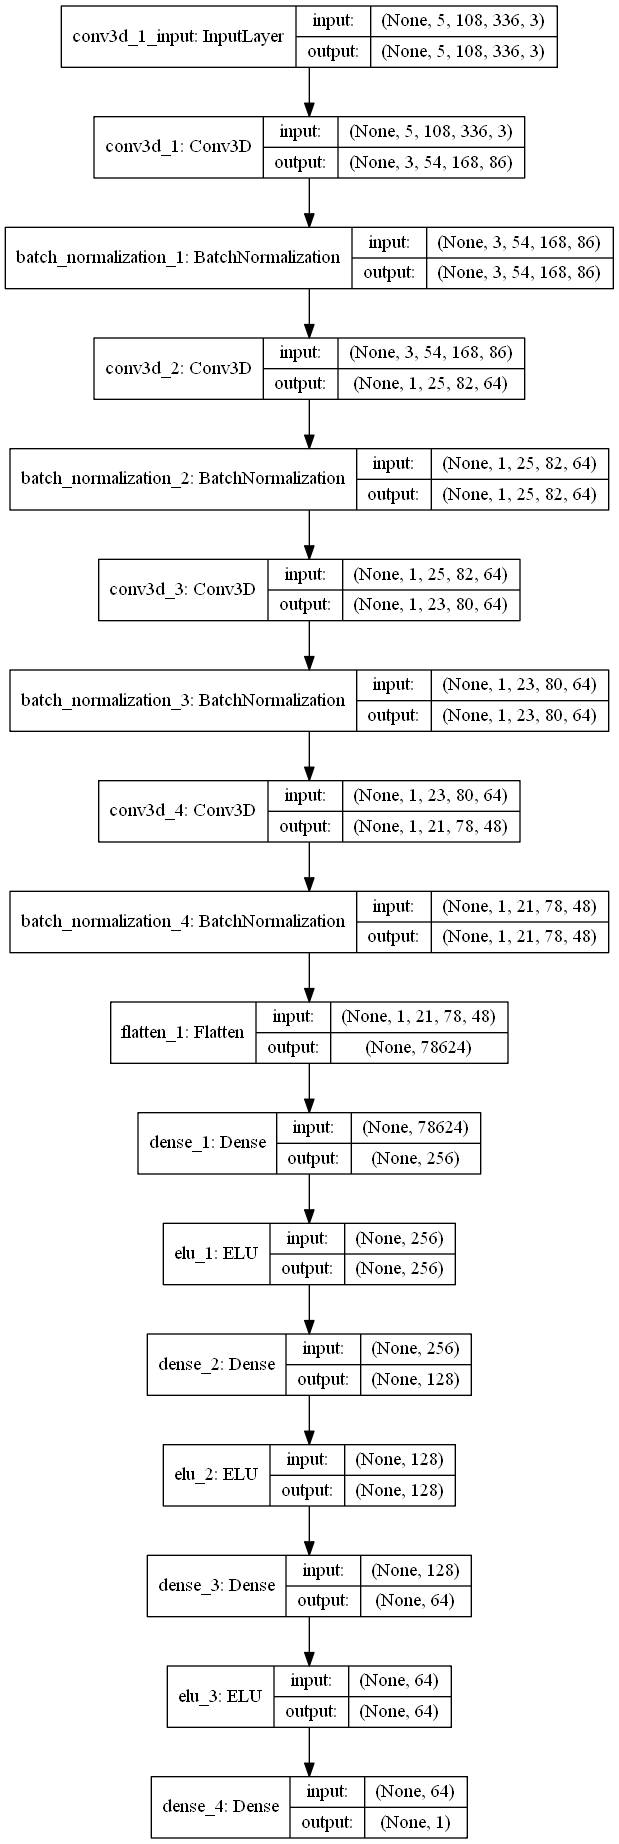
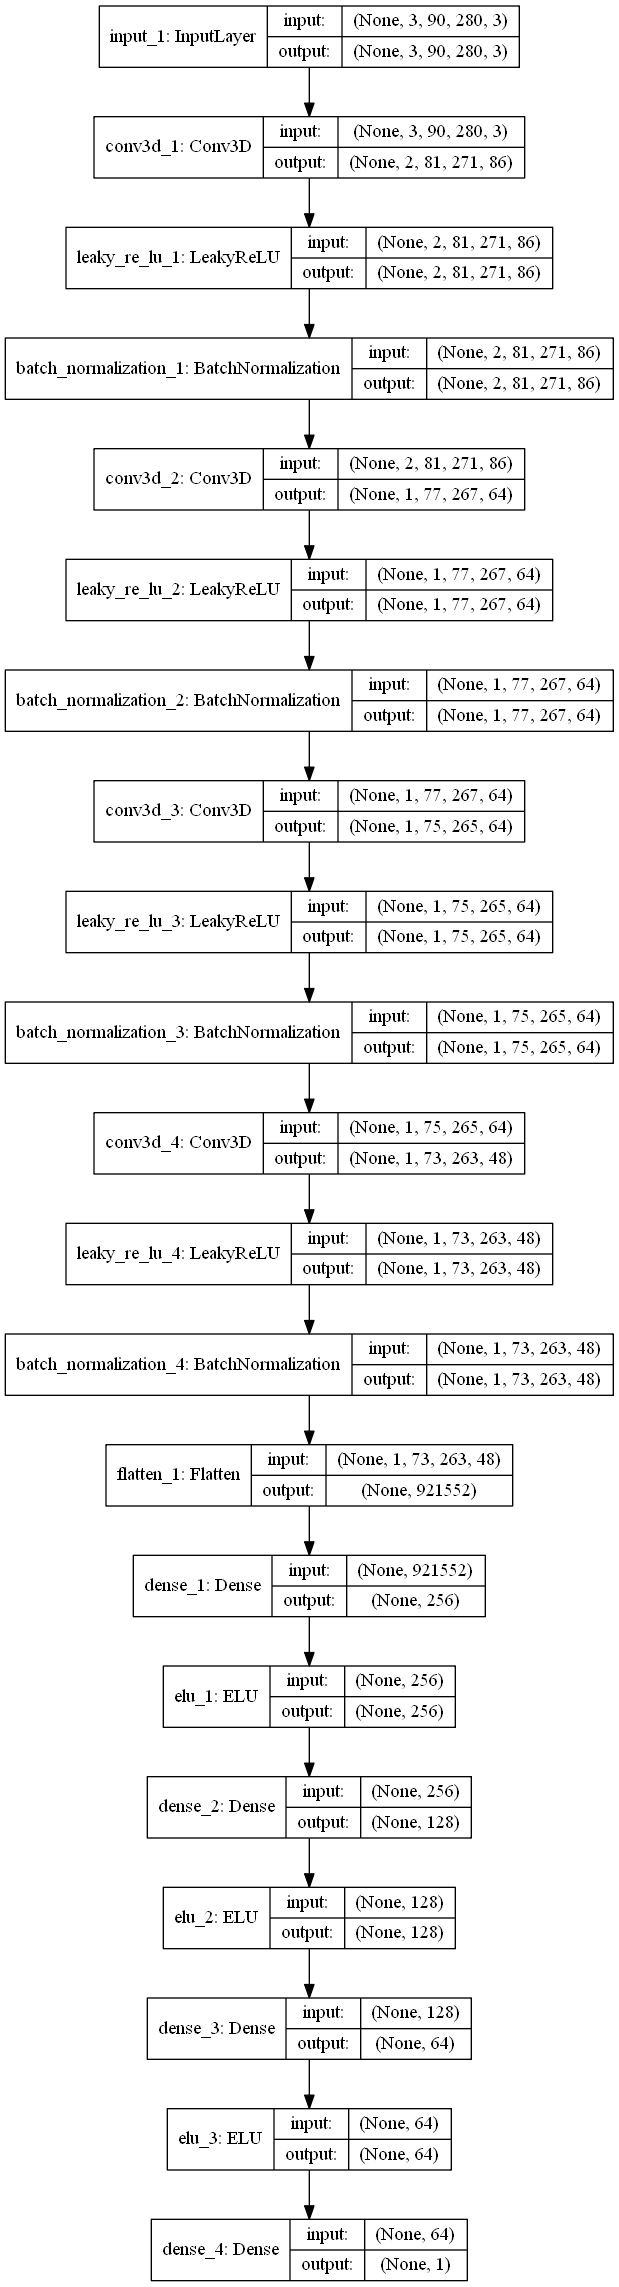
a

diff --git a/app/core/Models.py b/app/core/Models.py
@@ -1,7 +1,8 @@
 from keras import Sequential
 from keras.activations import linear
+from keras.engine import InputLayer
 from keras.initializers import he_normal
-from keras.layers import Dense, ELU, Flatten, Conv2D, Conv3D, BatchNormalization
+from keras.layers import Dense, ELU, Flatten, Conv2D, Conv3D, BatchNormalization, LeakyReLU
 from keras.losses import mean_squared_error
 from keras.optimizers import Adam
 
@@ -17,10 +18,10 @@ class Models:
         )
 
         model = Sequential()
+        model.add(InputLayer(input_shape=input_shape))
         model.add(
             Conv2D(filters=64, kernel_size=(5, 5), strides=(3, 3),
-                   input_shape=input_shape, padding='valid',
-                   kernel_initializer=he_normal())
+                   padding='valid',  kernel_initializer=he_normal())
         )
         model.add(
             Conv2D(filters=86, kernel_size=(5, 5), strides=(2, 2),
@@ -69,37 +70,37 @@ class Models:
             x_shape[4])
 
         model = Sequential()
+        model.add(InputLayer(input_shape=input_shape))
         model.add(Conv3D(
-            filters=86, kernel_size=(3, 5, 5), strides=(2, 2, 2),
-            input_shape=input_shape,
-            padding='same',
+            filters=86, kernel_size=(2, 10, 10), strides=(1, 1, 1),
+            padding='valid',
             kernel_initializer=he_normal(),
-            activation='relu',
         ))
+        model.add(LeakyReLU())
         model.add(BatchNormalization())
 
         model.add(Conv3D(
-            filters=64, kernel_size=(2, 5, 5), strides=(2, 2, 2),
+            filters=64, kernel_size=(2, 5, 5), strides=(1, 1, 1),
             padding='valid',
             kernel_initializer=he_normal(),
-            activation='relu',
         ))
+        model.add(LeakyReLU())
         model.add(BatchNormalization())
 
         model.add(Conv3D(
             filters=64, kernel_size=(1, 3, 3), strides=(1, 1, 1),
             padding='valid',
             kernel_initializer=he_normal(),
-            activation='relu',
         ))
+        model.add(LeakyReLU())
         model.add(BatchNormalization())
 
         model.add(Conv3D(
             filters=48, kernel_size=(1, 3, 3), strides=(1, 1, 1),
             padding='valid',
             kernel_initializer=he_normal(),
-            activation='relu',
         ))
+        model.add(LeakyReLU())
         model.add(BatchNormalization())
 
         model.add(Flatten())

diff --git a/app/Controller.py b/app/Controller.py
@@ -210,13 +210,13 @@ if __name__ == "__main__":
     def combine_workers():
         workers = [MiniBatchWorker(
             PreprocessorParams(
-                backward=(0, 1, 2, 3, 4, 5),
+                backward=(0, 1, 2, 3),
                 frame_y_trim=(230, -160),
                 frame_x_trim=(180, -180),
-                frame_scale=1.2,
+                frame_scale=1,
             ),
             ControllerParams(
-                'NEW-OPT-A50',
+                'NEW-OPT-A70',
                 baths=30,
                 train_part=0.7,
                 epochs=1,
@@ -237,6 +237,7 @@ if __name__ == "__main__":
 
     def plot_progress(worker):
         fig, ax = plt.subplots()
+
         ax.plot(
             list(map(
                 lambda x: (x + 1) * worker.C_PARAMS.step_vis,
@@ -250,6 +251,7 @@ if __name__ == "__main__":
             worker.VISUAL.points_training)
 
         ax.legend(['Validation', 'Training'])
+        ax.set_ylim([0, 40])
         ax.set(
             xlabel='Batch Step (S)',
             ylabel='Errors (J)'
